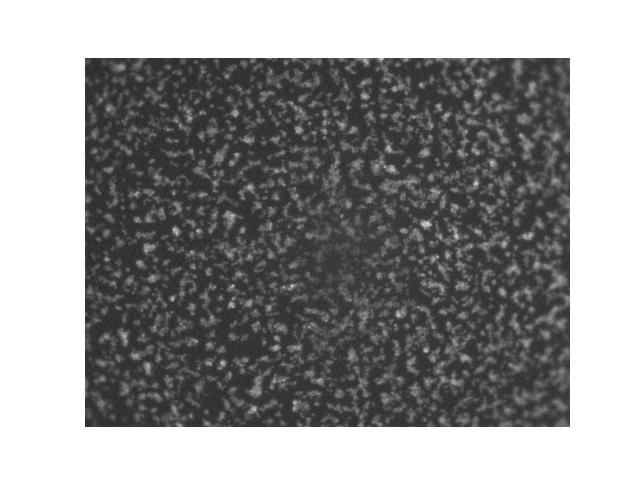
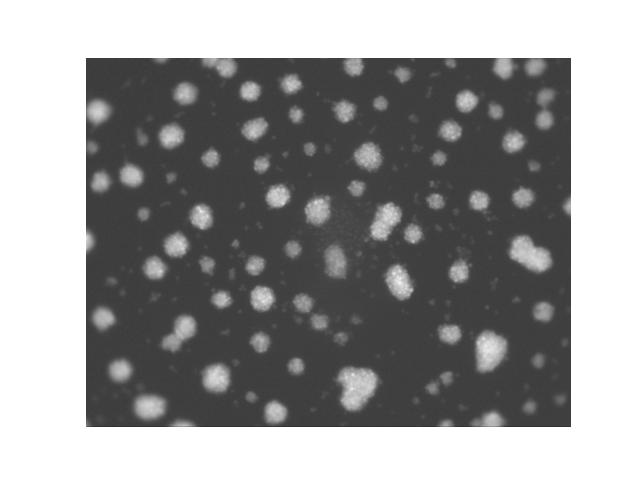
Test Code updated to include 2017-03-16

Changed region(s): [[0.125, 0.0938, 0.9062, 0.9062], [0.125, 0.875, 0.1562, 0.9062]]

diff --git a/data_analysis/pre-processing/test_code/unsupervised_segmentation.py b/data_analysis/pre-processing/test_code/unsupervised_segmentation.py
@@ -35,34 +35,58 @@ def image_show(image):
 
 
 ###    -----------   Input parameters   --------------     ###
-basedir = '/Users/Nathan/Documents/Oxford/DPhil/In_vitro_homogeneous_data/'
-experiment = 'RAW_data/2017-02-03_sphere_timelapse/'
-exp_date = '2017-02-03'
+basedir = '/Volumes/Elements/Nate thesis data/Thesis Data/'
+# experiment = 'RAW_data/2017-02-03_sphere_timelapse/'
+experiment = '2017-03-16 sphere TL 6/RAW/2017-03-16 sphere TL 6/2017-03-13 sphere TL 6-03/2017-03-13 sphere TL 6-03_'
+# exp_date = '2017-02-03'
+exp_date = '2017-03-16'
 #experiment = 'RAW_data/2017-02-13_sphere_timelapse_2/'
 #exp_date = '2017-02-13'
-folder = 'RAW/Timelapse/sphere_timelapse_useful_wells/'
+# folder = 'RAW/Timelapse/sphere_timelapse_useful_wells/'
+folder = ''
+
 fileID = '.tif'
 time_list = range(42,98,5)
-well_loc = 's11'
+# well_loc = 's11'
+well_loc = 's073'
 
 
 for i in range(67,68,1):
     time = i
 
-    raw_arr_2D = tif.tif_to_arr(basedir, experiment, folder, well_loc, str(time), fileID)
-
+    raw_arr_2D = tif.tif_to_arr(basedir, experiment, folder, well_loc, str(time).zfill(3), fileID)
+    
     raw_arr_2D = raw_arr_2D[:,1:]
     # raw_arr_2D -= raw_arr_2D.min()
     # raw_arr_2D *= 10
 
     # text = data.page()
-    image_show_save(raw_arr_2D)
+    image_show(raw_arr_2D)
 
-    text_threshold = filters.threshold_otsu  # Hit tab with the cursor after the underscore, try several methods
+    text_threshold = filters.threshold_yen  # Hit tab with the cursor after the underscore, try several methods
     thresh = text_threshold(raw_arr_2D)
     array = raw_arr_2D > thresh
     image_show(raw_arr_2D > thresh)
     print("Threshold is", thresh)
+
+# arr = np.loadtxt("/Users/Nathan/Documents/Oxford/DPhil/In_vitro_homogeneous_data/pre_processing_output/2017-02-03/s11t67c2_area.csv",
+#                  delimiter=",", dtype=int)
+arr = np.loadtxt("/Users/Nathan/Documents/Oxford/DPhil/In_vitro_homogeneous_data/pre_processing_output/2017-03-16/s073t067c2_area.csv",
+                 delimiter=",", dtype=int)
+
+
+arr = arr[:,1:]
+arr = arr > 0
+plt.imshow(arr)
+plt.show()
+
+array = array*1
+arr = arr*1
+
+diff_arr = np.subtract(arr,array)
+plt.imshow(diff_arr)
+plt.show()
+
 
     # plt.hist(raw_arr_2D)
     # plt.show()

diff --git a/data_analysis/pre-processing/test_code/read_tif_file_operator.py b/data_analysis/pre-processing/test_code/read_tif_file_operator.py
@@ -21,7 +21,8 @@ def tif_to_arr(basedir, experiment, folder, well_loc, time_list, fileID):
   # Loop over timepoints
   # for i in range(len(time_list)):
     # Read in tif file
-  name_list_b = basedir, experiment, folder, 'sphere_timelapse_', well_loc, 't', time_list, 'c2', '_ORG', fileID
+  # name_list_b = basedir, experiment, folder, 'sphere_timelapse_', well_loc, 't', time_list, 'c2', '_ORG', fileID
+  name_list_b = basedir, experiment, folder, well_loc, 't', time_list, 'c2', '_ORG', fileID
   # name_list_b = basedir, experiment, folder, '2017-02-13 sphere timelapse 2_', well_loc, 't', str(time_list), 'c2', '_ORG', fileID
   name_list_b_2  =''.join(name_list_b)
   data_set_b = GD.Open(name_list_b_2)
